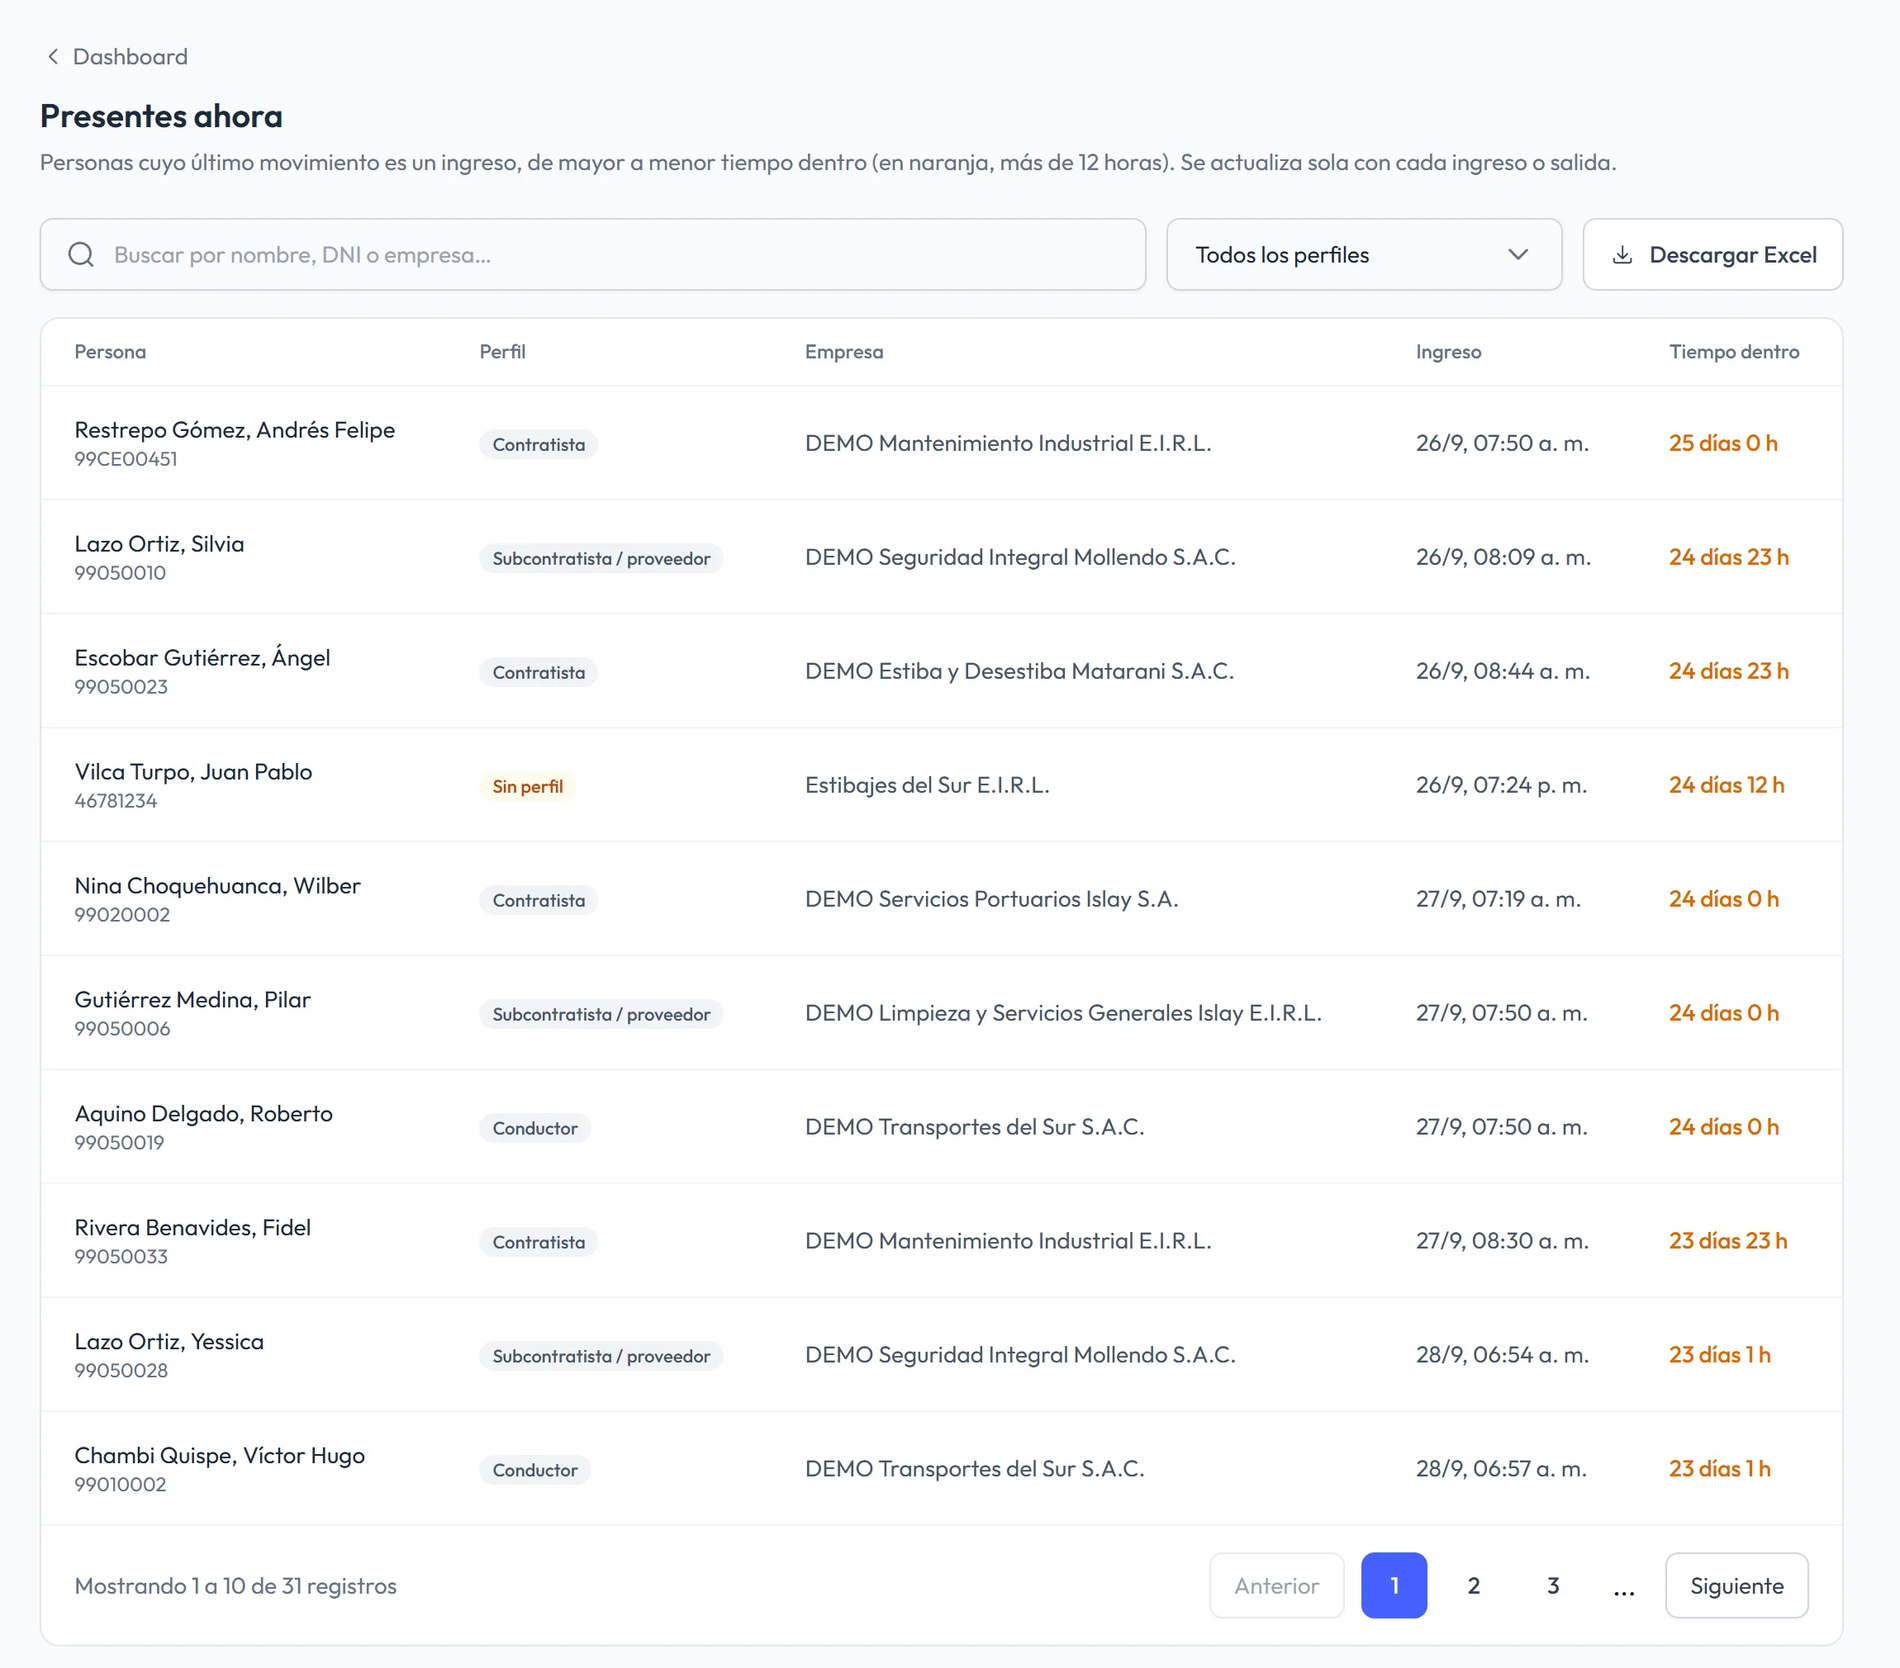
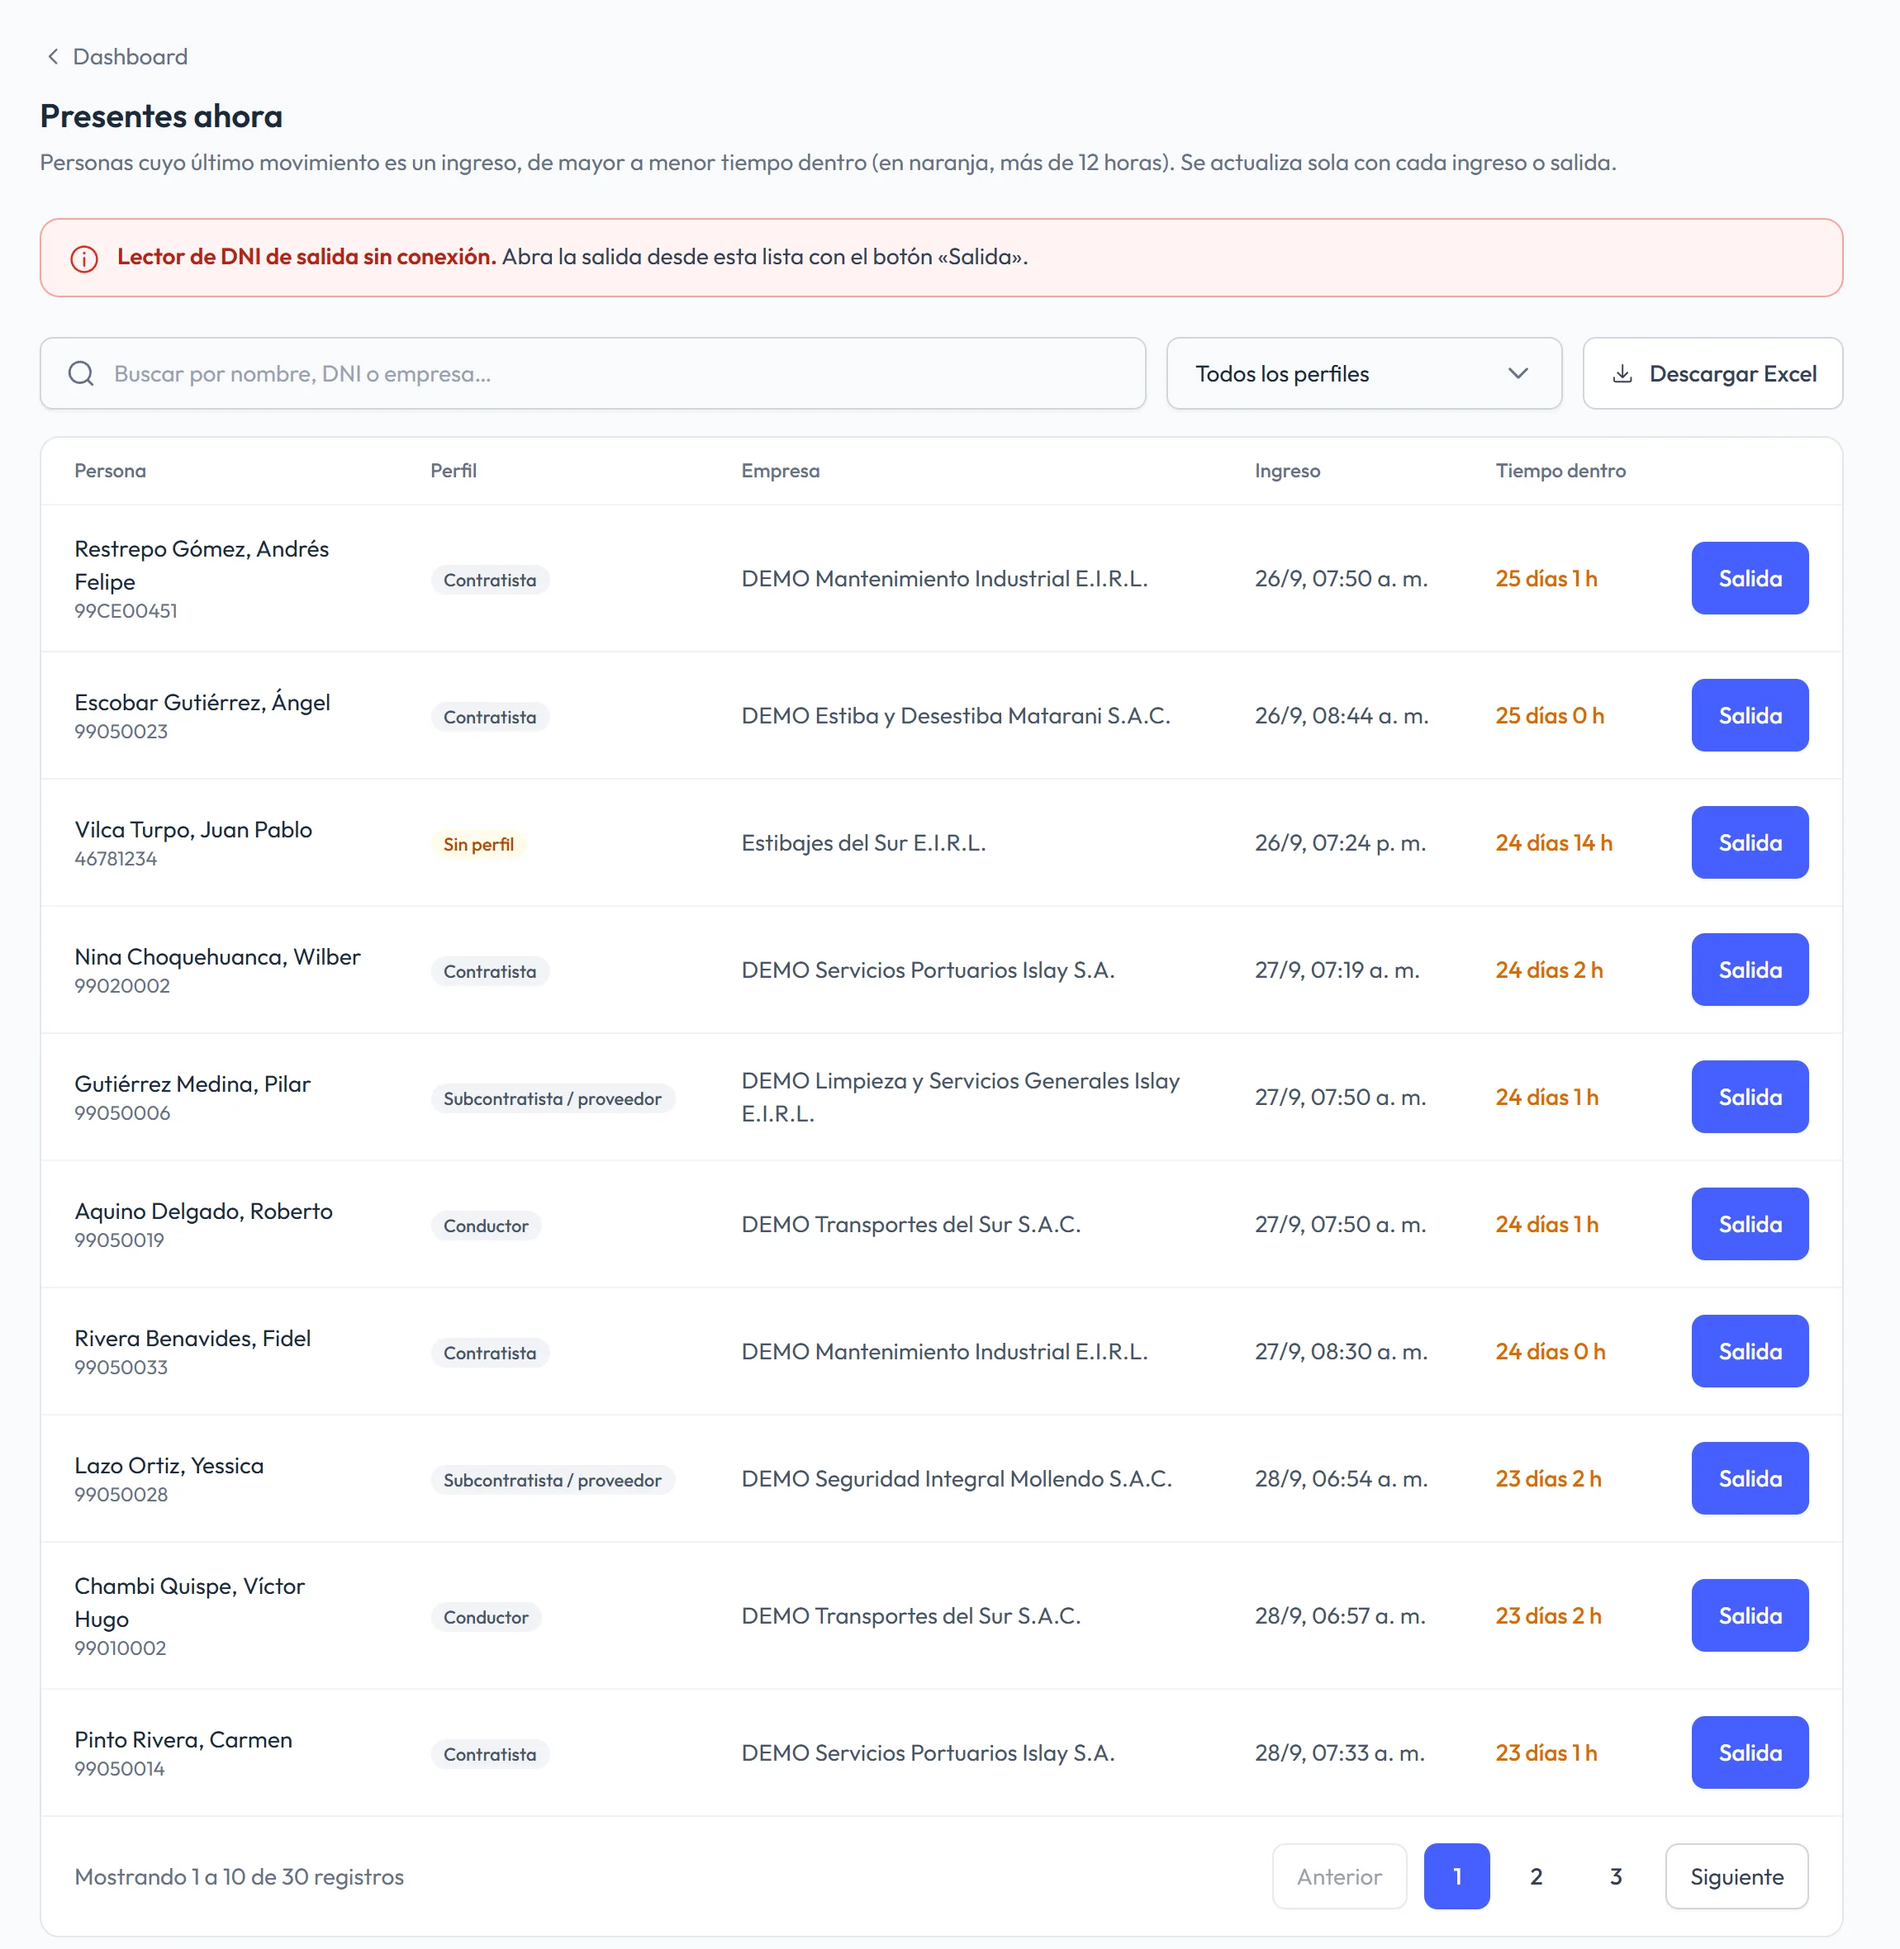
update test

diff --git a/mollendo-portal/src/app/(admin)/manual/secciones.tsx b/mollendo-portal/src/app/(admin)/manual/secciones.tsx
@@ -550,9 +550,18 @@ export const SECCIONES: SeccionManual[] = [
                     m="No pasó su DNI a tiempo"
                     hacer="En “facial primero”, aprobó rostro y alcohol, pero no pasó su DNI en los 30 segundos. Debe empezar otra vez."
                   />
+                  <Motivo
+                    m="No es quien sopló"
+                    hacer="En “facial primero”, la prueba de rostro y alcohol la hizo otra persona. No puede entrar con esa prueba."
+                  />
                   <Motivo m="Ya figura dentro" hacer="Figura que ya entró y no marcó su salida." />
                   <Motivo m="No registra ingreso" hacer="Quiere salir, pero no figura que haya entrado." />
                 </ul>
+                <p className="mb-2">
+                  <b>Marcas junto al motivo:</b> <Badge color="warning">Tarjeta de contingencia</Badge>,{" "}
+                  <Badge color="warning">Sin lector de DNI: identificado por rostro</Badge>, <Badge color="warning">Salida sin lector</Badge> y{" "}
+                  <Badge color="warning">Manual</Badge> (con quién decidió).
+                </p>
                 <p>
                   <b>Aviso ámbar “No completó”:</b> si dice que no pudo soplar, revise si el terminal tiene un <b>punto rojo</b>{" "}
                   (alcoholímetro desconectado) y avise a soporte. Se cierra con la ✕ o solo, cuando la siguiente persona entra bien.
@@ -596,13 +605,38 @@ export const SECCIONES: SeccionManual[] = [
               </li>
             </Lista>
             <p className="my-3">
-              La tarjeta pasada en otro momento <b>no abre</b>, suena el aviso y queda anotada. Cada uso, aceptado o no, se ve en{" "}
-              <b>Contingencias → Tarjetas de contingencia</b>, en el menú.
+              La tarjeta pasada en otro momento <b>no abre</b>, suena el aviso y queda anotada. Cada uso, aceptado o no, lo ve el administrador
+              en <b>Contingencias → Tarjetas de contingencia</b>.
             </p>
             <p>
-              <b>Administrador:</b> ahí mismo crea la tarjeta (“No vence” o hasta un día), la imprime, la desactiva o la elimina (solo si nunca se usó). Si se pierde o alguien le
-              toma una foto, use <b>“Cambiar código”</b>: la impresa queda anulada y debe imprimirse de nuevo. Solo el administrador las ve y las
+              <b>Administrador:</b> ahí mismo crea la tarjeta (“No vence” o hasta un día), la imprime, la desactiva o la elimina (solo si nunca se usó). Si se pierde o se copia,
+              use <b>“Cambiar código”</b>: la impresa queda anulada y debe imprimirse de nuevo. Solo el administrador las ve y las
               administra en el portal.
+            </p>
+          </>
+        ),
+      },
+      {
+        titulo: "Si falla un lector de DNI",
+        descripcion: "Contingencia «sin lector»: se activa sola",
+        contenido: (
+          <>
+            <p className="mb-3">
+              Si se desconecta un lector, el sistema lo detecta solo y muestra una franja roja en el Panel. No hay que activar nada.
+            </p>
+            <Lista>
+              <li>
+                <b>Lector de ingreso:</b> el ingreso es solo con rostro y alcohol, sin pasar el DNI (con el orden Facial + Alcohol → DNI).
+                Queda marcado <Badge color="warning">Sin lector de DNI: identificado por rostro</Badge>.
+              </li>
+              <li>
+                <b>Lector de salida:</b> toque <b>“Ir a Presentes ahora”</b>, busque a la persona y toque <b>“Salida”</b>; confirme con{" "}
+                <b>“Abrir salida”</b>. Queda marcado <Badge color="warning">Salida sin lector</Badge>, con su usuario. Mientras tanto, “Salida
+                sin DNI” no se puede usar.
+              </li>
+            </Lista>
+            <p className="mt-3">
+              Cuando el lector vuelve, todo regresa solo a la normalidad. Avise a soporte para que lo revise o lo cambie.
             </p>
           </>
         ),
@@ -706,6 +740,53 @@ export const SECCIONES: SeccionManual[] = [
     ],
   },
   {
+    id: "presentes",
+    titulo: "Presentes ahora",
+    descripcion: "Quiénes están dentro del terminal en este momento.",
+    roles: ["administrador", "vigilancia"],
+    pantallas: [
+      {
+        titulo: "Presentes ahora",
+        descripcion: "Quiénes están dentro",
+        clave: "presentes",
+        puntos: [
+          {
+            titulo: "Buscar",
+            texto: (
+              <p>
+                Por nombre, DNI o empresa. Útil, por ejemplo, en una evacuación. Se actualiza sola con cada ingreso o salida. El
+                administrador regresa con “‹ Dashboard”.
+              </p>
+            ),
+          },
+          { titulo: "Filtrar por perfil", texto: <p>Muestra solo las personas de ese perfil.</p> },
+          {
+            titulo: "Descargar Excel",
+            texto: <p>El reporte “Personal presente”, con el perfil elegido (solo el administrador).</p>,
+          },
+          {
+            titulo: "Tiempo dentro",
+            texto: (
+              <p>
+                De mayor a menor tiempo dentro; en naranja, más de 12 horas.
+              </p>
+            ),
+          },
+          { titulo: "Páginas", texto: <p>De 10 en 10.</p> },
+          {
+            titulo: "Salida",
+            texto: (
+              <p>
+                Solo aparece si el lector de salida está desconectado: abre la salida de esa persona (ver “Si falla un lector de DNI”, en
+                Panel de vigilancia).
+              </p>
+            ),
+          },
+        ],
+      },
+    ],
+  },
+  {
     id: "dashboard",
     titulo: "Dashboard",
     descripcion: "Indicadores y gráficos de lo que pasa en el terminal, y quiénes están dentro ahora.",
@@ -770,36 +851,6 @@ export const SECCIONES: SeccionManual[] = [
               </>
             ),
           },
-        ],
-      },
-      {
-        titulo: "Presentes ahora",
-        descripcion: "Quiénes están dentro",
-        clave: "presentes",
-        puntos: [
-          {
-            titulo: "Buscar",
-            texto: (
-              <p>
-                Por nombre, DNI o empresa. Útil, por ejemplo, en una evacuación. Se actualiza sola con cada ingreso o salida; “‹ Dashboard”
-                regresa.
-              </p>
-            ),
-          },
-          { titulo: "Filtrar por perfil", texto: <p>Muestra solo las personas de ese perfil.</p> },
-          {
-            titulo: "Descargar Excel",
-            texto: <p>El reporte “Personal presente”, con el perfil elegido.</p>,
-          },
-          {
-            titulo: "Tiempo dentro",
-            texto: (
-              <p>
-                De mayor a menor tiempo dentro; en naranja, más de 12 horas.
-              </p>
-            ),
-          },
-          { titulo: "Páginas", texto: <p>De 10 en 10.</p> },
         ],
       },
     ],

diff --git a/PROGRESO.md b/PROGRESO.md
@@ -725,6 +725,7 @@ Resumen del estado actual. El detalle de cada cambio está en la bitácora (abaj
 - **2026-10-20** — **Monitor del G4 Pro en su propia página.** En Sistema y APIs la tarjeta ya no se despliega: título, descripción, insignia "En vivo" y botón **Abrir monitor**, que lleva a `/sistema/monitor` (la tabla de siempre, con "← Sistema y APIs" y "En vivo" arriba). Manual, guía de depuración y checklist (6.6) actualizados. Desplegado en Azure (portal); `/sistema/monitor` responde 200.
 - **2026-10-20** — **Monitor: horas y demora.** La demora cuenta segundos enteros (antes redondeaba: 18:24:26 → 18:24:37,6 decía 12 s en vez de 11). La prueba lleva siempre el día; llegada e ingreso solo la hora (el día solo si cambia).
 - **2026-10-20** — **Monitor del G4 Pro por días y páginas.** Como el Panel: empieza en hoy (selector de día, "Hoy", "Todos los días"), búsqueda por nombre o DNI y 10 por página, como el Panel con "Mostrando X a Y de Z" (antes, las 30 últimas). `GET /integraciones/g4pro/marcaciones` acepta pagina, porPagina, busqueda, desde y hasta (por la llegada) y devuelve `{datos, total, pagina, porPagina}`; las pruebas que no llegaron se comparan con la anterior del equipo aunque esté en otra página o día (con búsqueda no se marcan). "En vivo" solo con hoy o todos los días. Probado en Azure con los datos reales (hoy 4 pruebas; "vilchez" 27). API 244/244, portal 131/131.
+- **2026-10-21** — **Manual: lo que faltaba** (revisión completa; textos aprobados). Panel de vigilancia: pantalla nueva "Si falla un lector de DNI" (contingencia "sin lector"), motivo "No es quien sopló", marcas junto al motivo, y en la tarjeta "se pierde o se copia" y "lo ve el administrador en Contingencias…". "Presentes ahora" pasa de la sección Dashboard a una sección propia para administrador y vigilante, con "solo el administrador" en el Excel y el punto 6 "Salida"; su captura se toma con un controlador simulado (lector de salida desconectado, solo en la PC de desarrollo) para que se vean los botones. Desplegado en Azure (portal; respaldo `~/respaldo-manual-faltantes-*.tgz`).
 - **2026-10-21** — **Manual y pantalla de Auditoría al día** (textos aprobados): descripción de Auditoría ("Quién hizo cada cambio o acción…"), puntos "Dato y registro" y "Acción" con las acciones nuevas, "Aviso de fallas" en Sistema ("Aparece y desaparece en el momento…") y subtítulo de la pantalla de Auditoría; captura de Auditoría retomada. Desplegado en Azure (portal; respaldo `~/respaldo-manual-auditoria2-*.tgz`).
 - **2026-10-21** — **Auditoría: 6 acciones más.** Pedido del usuario (las 6 recomendadas). Acciones nuevas `apertura`, `ejecucion`, `descarga` y `consulta` (migración `20261021170000_auditoria_acciones`): (1) molinete abierto a mano por `POST /integraciones/torniquete/comando` (con quién; en la nube el relé del servidor no existe y queda "el relé no respondió"); (2) "Salida sin lector" (también en la Auditoría, con el evento); (3) Salida sin DNI: elegir (crear) y cancelar (eliminar); (4) sincronización con el G4: simular, sincronizar y la revisión diaria ("Sistema"), con lo agregado/borrado/corregido, y activar/desactivar la diaria; (5) descarga de reportes (título, formato y filtros; también el ZIP); (6) archivo de un documento abierto (cuál, versión y de quién). Pantalla y reporte de Auditoría con los nombres nuevos y el detalle en la columna Registro. Probado en local con las 6. API 276/276, portal 140/140. Desplegado en Azure (API con la migración y portal; respaldo `~/respaldo-auditoria-acciones-*.tgz`); mini PC igual a la local. Documento Funcional (4.6, 4.7, RN-14, versión) y contingencias (sección 2 y 4.1: el G4 figura caído a los ~20 s, no 2 min) actualizados.
 - **2026-10-21** — **Prueba en vivo con el usuario (09:09–09:13): confirmado.** Lectores y relés desconectados (detectado en 3 s, vuelta en 6 s) y reinicio del equipo facial (detectado en 26 s, volvió en 1 min 10 s); el usuario vio la franja de fallas y las tarjetas de "Sistema y APIs" cambiar al mismo tiempo. Todo quedó en la Auditoría y el controlador con su configuración normal.
